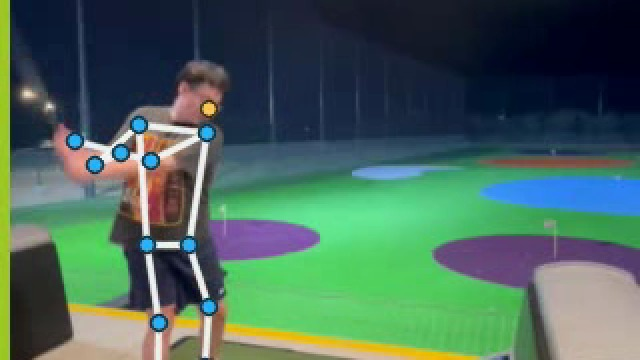
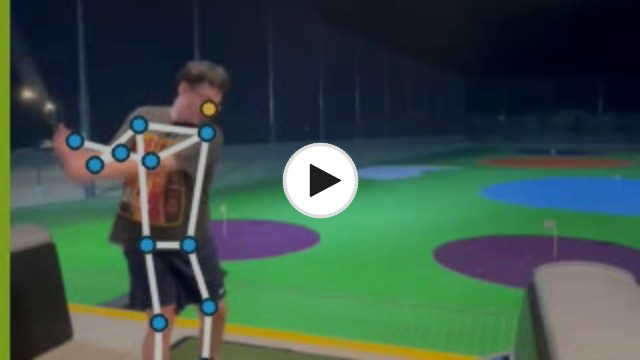
fix README demo section: clickable play-button posters instead of <video>
GitHub strips <video> tags in README. Replace with:
- 16:9 poster images with white play button overlay (cv2)
- Clickable <a><img> linking to GitHub's built-in video player
- Caption with inline ▶ play link for discoverability

diff --git a/README.md b/README.md
@@ -22,18 +22,16 @@
 <table>
 <tr>
 <td width="50%" align="center">
-<video src="https://raw.githubusercontent.com/rayford295/swingform-ai/main/examples/yifan-golf-0520/golf_effects.mp4"
-  poster="docs/assets/yifan-golf-0520/overlay_poster.jpg"
-  controls muted loop width="100%">
-</video>
-<br><sub>⛳ <b>Golf · TopGolf</b> · skeleton overlay · ball trail · 2 swings detected</sub>
+<a href="https://github.com/rayford295/swingform-ai/blob/main/examples/yifan-golf-0520/golf_effects.mp4">
+<img src="docs/assets/yifan-golf-0520/overlay_poster.jpg" alt="Golf swing skeleton overlay — click to play" width="100%">
+</a>
+<br><sub>⛳ <b>Golf · TopGolf</b> · skeleton overlay · ball trail · 2 swings detected · <a href="https://github.com/rayford295/swingform-ai/blob/main/examples/yifan-golf-0520/golf_effects.mp4">▶ play</a></sub>
 </td>
 <td width="50%" align="center">
-<video src="https://raw.githubusercontent.com/rayford295/swingform-ai/main/examples/yifan-basketball-0601/basketball_overlay.mp4"
-  poster="docs/assets/yifan-basketball-0601/overlay_poster.jpg"
-  controls muted loop width="100%">
-</video>
-<br><sub>🏀 <b>Basketball · Indoor court</b> · skeleton overlay · release detected</sub>
+<a href="https://github.com/rayford295/swingform-ai/blob/main/examples/yifan-basketball-0601/basketball_overlay.mp4">
+<img src="docs/assets/yifan-basketball-0601/overlay_poster.jpg" alt="Basketball skeleton overlay — click to play" width="100%">
+</a>
+<br><sub>🏀 <b>Basketball · Indoor court</b> · skeleton overlay · release detected · <a href="https://github.com/rayford295/swingform-ai/blob/main/examples/yifan-basketball-0601/basketball_overlay.mp4">▶ play</a></sub>
 </td>
 </tr>
 </table>

diff --git a/README.zh-CN.md b/README.zh-CN.md
@@ -24,18 +24,16 @@
 <table>
 <tr>
 <td width="50%" align="center">
-<video src="https://raw.githubusercontent.com/rayford295/swingform-ai/main/examples/yifan-golf-0520/golf_effects.mp4"
-  poster="docs/assets/yifan-golf-0520/overlay_poster.jpg"
-  controls muted loop width="100%">
-</video>
-<br><sub>⛳ <b>高尔夫 · TopGolf</b> · 骨架叠加 · 球轨迹 · 检测到 2 次挥杆</sub>
+<a href="https://github.com/rayford295/swingform-ai/blob/main/examples/yifan-golf-0520/golf_effects.mp4">
+<img src="docs/assets/yifan-golf-0520/overlay_poster.jpg" alt="高尔夫骨架叠加 — 点击播放" width="100%">
+</a>
+<br><sub>⛳ <b>高尔夫 · TopGolf</b> · 骨架叠加 · 球轨迹 · 2 次挥杆 · <a href="https://github.com/rayford295/swingform-ai/blob/main/examples/yifan-golf-0520/golf_effects.mp4">▶ 播放</a></sub>
 </td>
 <td width="50%" align="center">
-<video src="https://raw.githubusercontent.com/rayford295/swingform-ai/main/examples/yifan-basketball-0601/basketball_overlay.mp4"
-  poster="docs/assets/yifan-basketball-0601/overlay_poster.jpg"
-  controls muted loop width="100%">
-</video>
-<br><sub>🏀 <b>篮球 · 室内球场</b> · 骨架叠加 · 出手帧检测</sub>
+<a href="https://github.com/rayford295/swingform-ai/blob/main/examples/yifan-basketball-0601/basketball_overlay.mp4">
+<img src="docs/assets/yifan-basketball-0601/overlay_poster.jpg" alt="篮球骨架叠加 — 点击播放" width="100%">
+</a>
+<br><sub>🏀 <b>篮球 · 室内球场</b> · 骨架叠加 · 出手检测 · <a href="https://github.com/rayford295/swingform-ai/blob/main/examples/yifan-basketball-0601/basketball_overlay.mp4">▶ 播放</a></sub>
 </td>
 </tr>
 </table>
